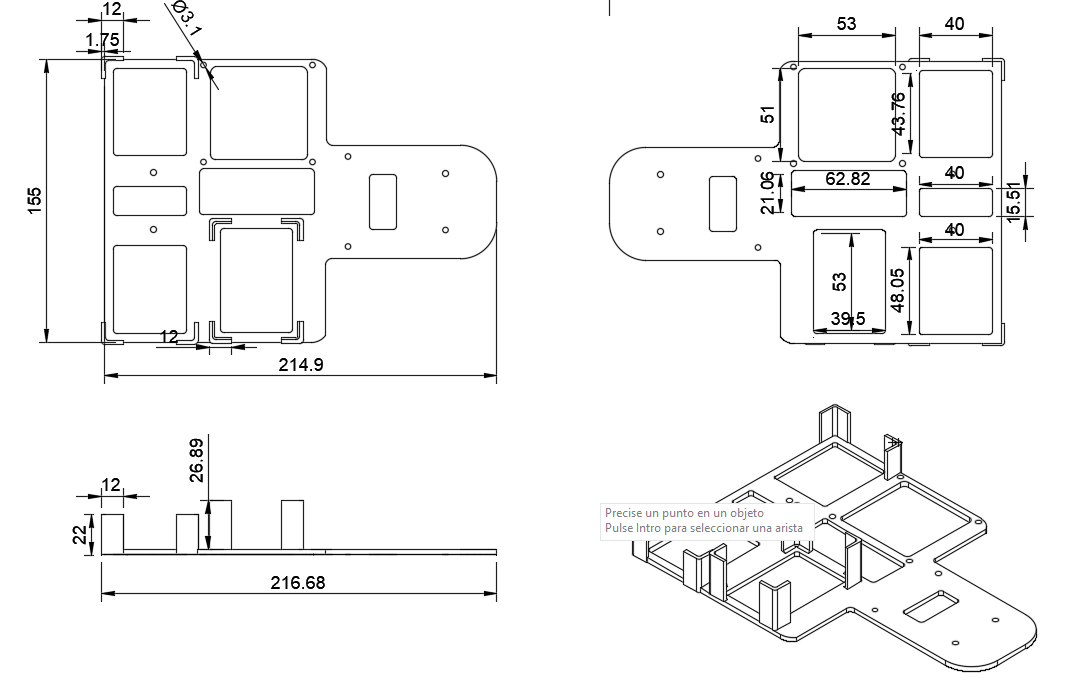
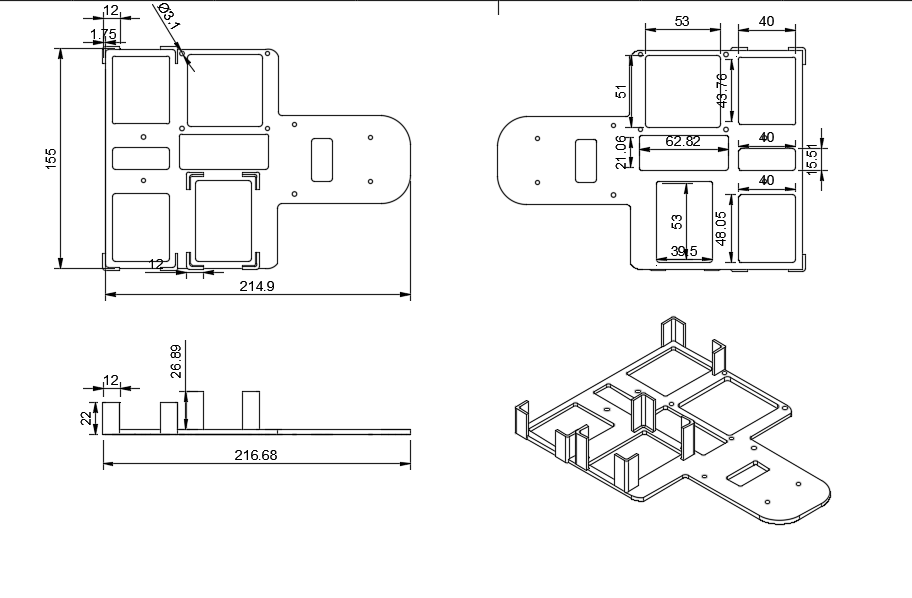
2D Models uploaded

diff --git a/docs/mechanical/parts/common.md b/docs/mechanical/parts/common.md
@@ -1,1 +1,69 @@
 # Piezas 3D Comunes {:#common-3d-parts}
+
+A continuación enseñaremos los modelos 2D de cada elemento mecánico perteneciente a todos los modelos de Klevor.
+
+# Sistema reductor de RPM
+
+![alt text](../../../models/3d-designs/common/rpm-reduction-system.png)
+
+En este modelo 3D podemos ver cómo está diseñado este sistema. Pasaremos a mostrar y explicar las piezas que lo conforman.
+
+![alt text](../../../models/2d-designs/common/rpm-reduction-system-mounting-plan.png)
+
+**Base del sistema:** Es el cuerpo en el que se ensamblan todos los componentes de este sistema.
+
+![alt text](../../../models/2d-designs/common/36-teeth-lego-pinion-plan.png)
+![alt text](../../../models/2d-designs/common/24-teeth-lego-pinion-plan.png)
+![alt text](../../../models/2d-designs/common/20-teeth-lego-pinion.png)
+![alt text](../../../models/2d-designs/common/17-teeth-metallic-pinion-plan.png)
+![alt text](../../../models/2d-designs/common/8-teeth-lego-pinion-plan.png)
+
+**Piñones/Engranajes:** Esta es la parte más importante de nuestro sistema, son los que hacen que el motor pierda velocidad, pero que a su vez, gane fuerza. Estos engranajes son sobrantes de kits, pero quisimos adecuarlos a nuestro sistema para que no fuesen desperdiciadas.
+
+![alt text](../../../models/2d-designs/common/rpm-reduction-system-edge-plan.png)
+
+**Eje principal:** Usamos dos de estos ejes, funcionan sujetando los piñones a una altura fija. Esta pieza también es reutilizada.
+
+![alt text](../../../models/2d-designs/common/3.5-lego-separator.png)
+
+**Separadores:** Se encargan de mantener los engranajes en un mismo sitio para que estos coincidan en sus giros. Esta también es una pieza reutilizada. Usamos tres unidades
+
+![alt text](../../../models/2d-designs/common/transmission-mount-bushing-plan.png)
+
+**Bujes:** Los bujes sostienen a los ejes y a su vez permiten el giro de los engranajes.
+
+![alt text](../../../models/2d-designs/common/servo-cross-plan.png)
+
+**Separador en froma de cruceta:** Se conecta con el buje que está detrás del piñón de 36 dientes. Este encaja con el buje y con uno de los ejes.
+
+# Sistema Motriz
+
+![alt text](../../../models/2d-designs/common/differential-plan.png)
+
+**Diferenciales:** Todo nuestro sistema motriz se basa en 2 diferenciales que hacen que las cuatro ruedas tengan tracción.
+
+![alt text](../../../models/2d-designs/common/gearbox-plan.png)
+
+**Caja de diferencial:** Acá es dónde se guarda el diferencial y salen los componentes que permiten el giro de la rueda. 
+
+![alt text](../../../models/2d-designs/common/principal-transmission-edge.png)
+
+**Eje transmisor:** Se encarga de conectar ambos diferenciales, para que las cuatro ruedas se muevan por igual.
+
+![alt text](../../../models/2d-designs/common/differential-cup-plan.png)
+
+**Copa transmisora:** La usamos en el diferencial y en las ruedas, está diseñado para encajar con el semieje, haciendo que tras ruedas tengan movimiento.
+
+**Semieje:**
+
+![alt text](../../../models/2d-designs/common/back-knuckle-plan.png)
+
+**Nudillo trasero:** Es la pieza que sostiene directamente la rueda, encaja con las copas transmisoras.
+
+![alt text](../../../models/2d-designs/common/frontal-knuckle-plan.png)
+
+**Nudillo delantero:** También se encarga de conectarse con la rueda y con una copa transmisora, pero a diferencia del nudillo trasero este es un poco más alargado, para encajar con las barras del sistema Ackermann.
+
+![alt text](../../../models/2d-designs/common/wheels-plan.png)
+
+**Ruedas:** Usamos cuatro unidades de esta rueda, diseñadas por nosotros con un aspecto único.

diff --git a/docs/mechanical/parts/prototype1.md b/docs/mechanical/parts/prototype1.md
@@ -1,1 +1,42 @@
 # Prototipo 1 {:#prototype1}
+
+# Primer nivel
+
+![alt text](../../../models/2d-designs/prototype1/bottom-layer-prototype1.png)
+
+**Capa inferior:** La "base" de Klevor, hecha para ensamblar toda su parte mecánica.
+
+![alt text](../../../models/2d-designs/prototype1/thin-2nd-floor-mounting-prototype1-plan.png)
+
+**Soporte (delgado):** Este soporte se atornilla a la caja del diferencial trasera para sostener el segundo nivel
+
+![alt text](../../../models/2d-designs/prototype1/width-2nd-floor-mounting-prototype1.png)
+
+**Soporte (grueso):** Se conecta a la caja del diferencial frontal, el orificio central es más grande debido a que también se sostiene del agarre superior de las ruedas delanteras.
+
+# Segundo Nivel 
+
+![alt text](../../../models/2d-designs/prototype1/2nd-floor-prototype1-plan.png)
+
+
+
+**Segunda capa:** Diseñada para colocar los sensores ToF y un powerbank que usaremos de manera provisional.
+
+![alt text](../../../models/2d-designs/prototype1/tof-sensor-mounting-plan.png)
+
+**Soporte para sensor ToF:** El sensor ToF se atornilla de forma horizontal en esta base. La base se ensambla directamente a la capa.
+
+![alt text](../../../models/2d-designs/prototype1/3rd-floor-mounting-plan.png)
+
+**Soporte de la capa superior:** Sostienen la capa superior. Diseñados para ser ensamblados con tornillos y tuercas, esto le da más resistencia.
+
+# Tercer Nivel
+
+![alt text](../../../models/2d-designs/prototype1/3rd-floor-prototype1.png)
+
+
+**Capa superior:** Hecha para colocar el microcontrolador y cámara.
+
+![alt text](../../../models/2d-designs/prototype1/camera-mounting-prototype1.png)
+
+**Soporte para cámara:** Fue diseñada para estar alta y que no fuese obstruida, además, está seccionada en dos partes, la superior (donde va la cámara) y la inferior (pilares) fue diseñada para que su ángulo de visión sea modificable. Esto solo mientras se hacen pruebas.SSSSSS

diff --git a/docs/mechanical/parts/prototype3.md b/docs/mechanical/parts/prototype3.md
@@ -1,1 +1,17 @@
 # Prototipo 3 {:#prototype3}
+
+![alt text](../../../models/2d-designs/prototype3/bottom-layer-plan.png)
+
+**Capa inferior:** Se hicieron cambios drásticos, principalmente modificando el grosor de la capa y añadiendo nuevos huecos, toda la base está hecha a medida de los componentes que estamos usando.
+
+![alt text](../../../models/2d-designs/prototype3/thin-top-floor-mounting-plan.png)
+
+**Soporte para capa superior (delgado):** Hecho para sostener con total firmeza la capa superior, se ensambla en la caja del diferencial trasera.
+
+![alt text](../../../models/2d-designs/prototype3/width-top-floor-mounting-plan.png)
+
+**Soporte para RPLidar:** El hueco central es más ancho porque se ensambla en la caja del diferencial frontal y en el soporte superior de los nudillos a la vez. Encima de esta se ensambla nuestro RPLidar.
+
+![alt text](../../../models/2d-designs/prototype3/top-layer-plan.png)
+
+**Capa superior:** También ha sido demasiado cambiada respecto al prototipo 2, tuvimos que reducirlo para no sobrepasar el peso más alto permitido, encima de esta capa está ubicada la [Shargeek Storm 2](../../electronic/components/current.md#shargeek-storm-2) y la [Raspberry Pi 5](../../electronic/components/current.md#raspberry-pi-5).

diff --git a/docs/mechanical/parts/prototype2.md b/docs/mechanical/parts/prototype2.md
@@ -1,1 +1,15 @@
 # Prototipo 2 {:#prototype2}
+
+![alt text](../../../models/2d-designs/prototype2/bottom-layer-prototype2.png)
+
+**Capa inferior:** Hicimos cambios respecto al prototipo 1, hicimos más orificios para no sobrepasar el peso reglamentario.
+
+
+![alt text](../../../models/2d-designs/prototype2/top-floor-prototype2.png)
+
+**Capa superior:** En esta hubo demasiados cambios debidos a la adición de nuevos componentes como la Raspberry PI 5 o el RPlidar.
+
+
+![alt text](../../../models/2d-designs/prototype2/camera-mounting-prototype2.png)
+
+**Soporte para cámara:** Luego de varias pruebas logramos determinar el ángulo ideal para la cámara, por eso unimos ambas piezas que anteriormente eran graduables.
